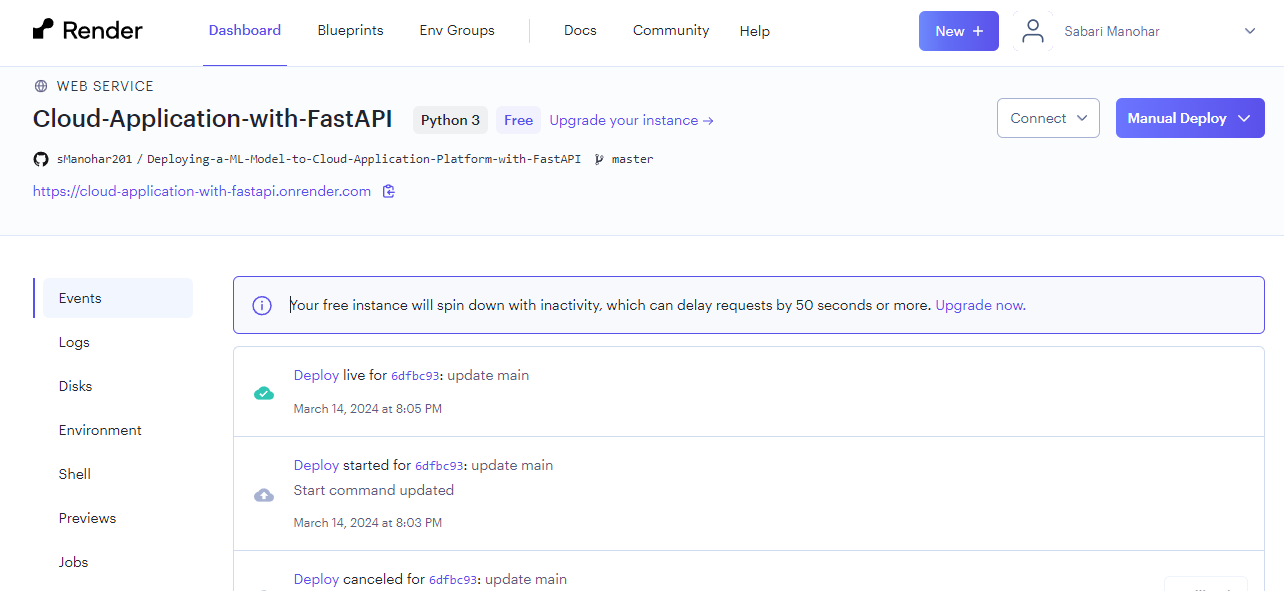
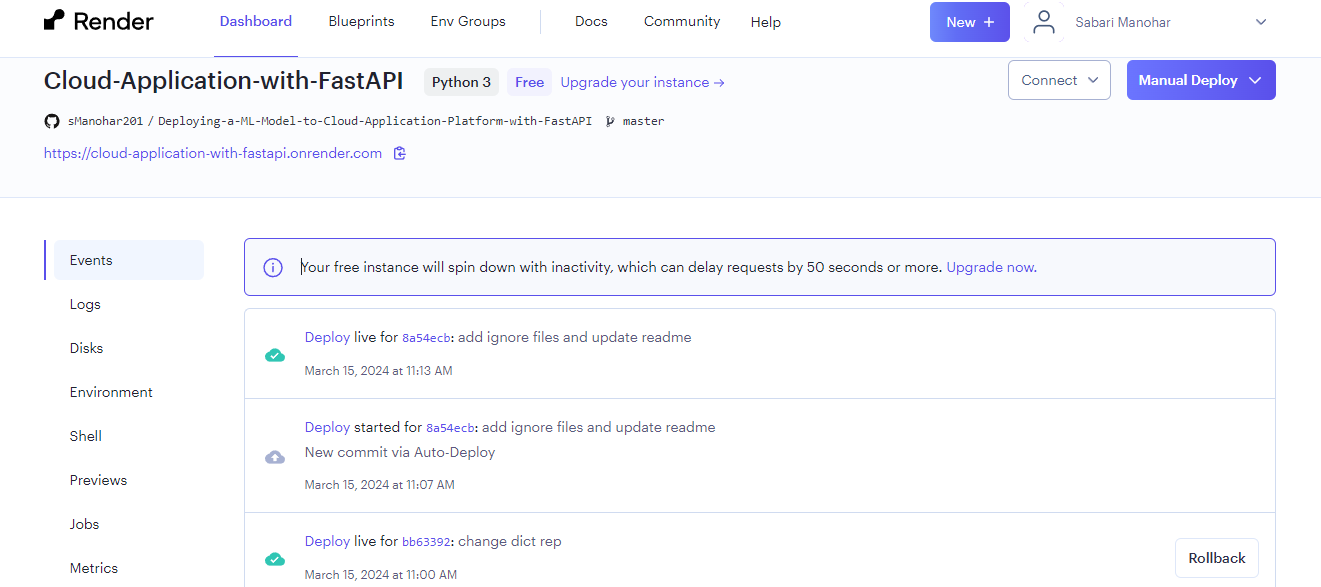
add changes to the example and screenshots

diff --git a/main.py b/main.py
@@ -9,7 +9,7 @@ import joblib
 import logging
 from fastapi import FastAPI
 import pandas as pd
-from pydantic import BaseModel
+from pydantic import BaseModel, Field
 from contextlib import asynccontextmanager
 
 from ml.model import inference # More clarity
@@ -37,20 +37,20 @@ def hyphen_to_underscore(field_name):
 
 # Input data model
 class ClientInput(BaseModel):
-    age: int
-    workclass: str 
-    fnlgt: int 
-    education: str 
-    education_num: int 
-    marital_status: str 
-    occupation: str
-    relationship: str
-    race: str 
-    sex: str
-    capital_gain: int 
-    capital_loss: int 
-    hours_per_week: int
-    native_country: str 
+    age: int = Field(..., example=50)
+    workclass: str = Field(..., example="Private") 
+    fnlgt: int = Field(..., example=234721) 
+    education: str = Field(..., example="Doctorate")
+    education_num: int = Field(..., example=16)
+    marital_status: str = Field(..., example="Separated")
+    occupation: str = Field(..., example="Exec-managerial")
+    relationship: str = Field(..., example="Not-in-family")
+    race: str = Field(..., example="Black")
+    sex: str = Field(..., example="Female")
+    capital_gain: int = Field(..., example=0)
+    capital_loss: int = Field(..., example=0)
+    hours_per_week: int = Field(..., example=50)
+    native_country: str = Field(..., example="United-States")
 
     class ConfigDict:
         json_schema_extra = {

diff --git a/README.md b/README.md
@@ -9,6 +9,22 @@ The project follows the steps mentioned below:
    - Render: Create cloud inference endpoint. the required files are `requirements.txt` for installing the dependencies. 
    - CI/CD: Implement continuous integration and continuous deployment using github actions and Render platform. 
 
+# Screenshots:
+   - Continuous integration:
+      ![](screenshots/continuous_integration.png)
+      ![](screenshots/continuous-integration1.png)
+
+   - Continuous Deployment:
+      ![](screenshots/continuous-deployment.png)
+      ![](screenshots/auto_deploy_proof.png)
+
+   - Live post and get:
+      ![](screenshots/live_get.png)
+      ![](screenshots/live_post.png)
+   
+   - FastAPI documentation:
+      ![](screenshots/example.png)
+
 # Project Instructions and results:
 Working in a command line environment is recommended for ease of use with git and dvc. If on Windows, WSL1 or 2 is recommended.
 
